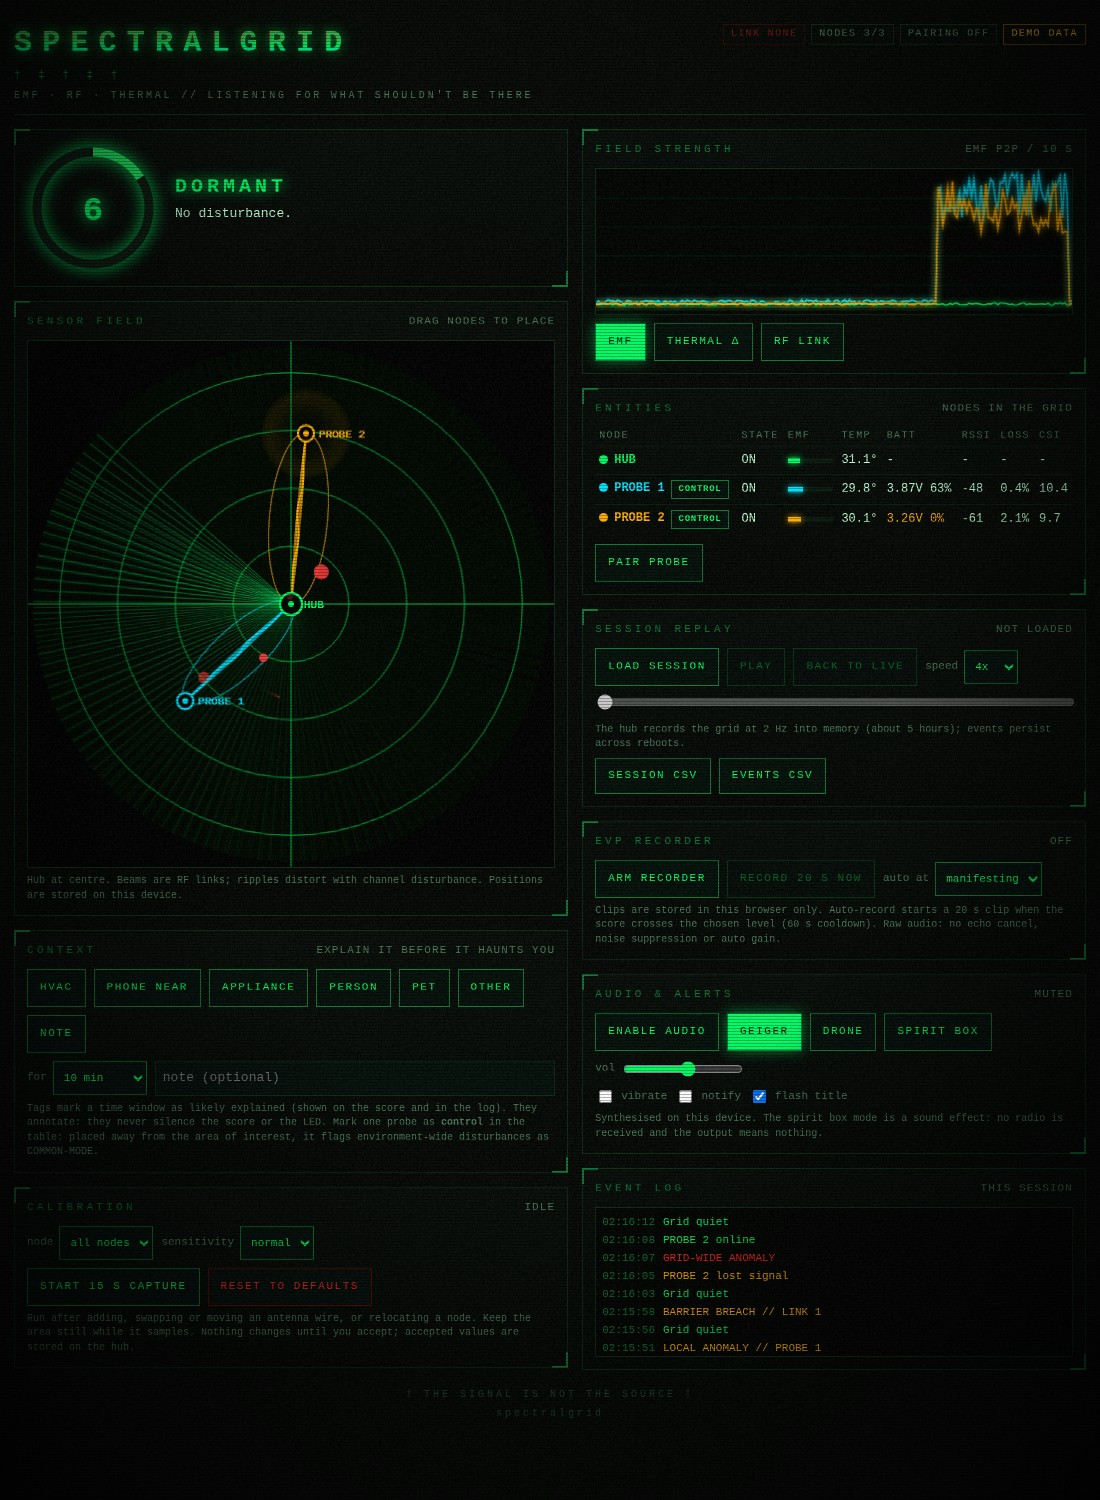
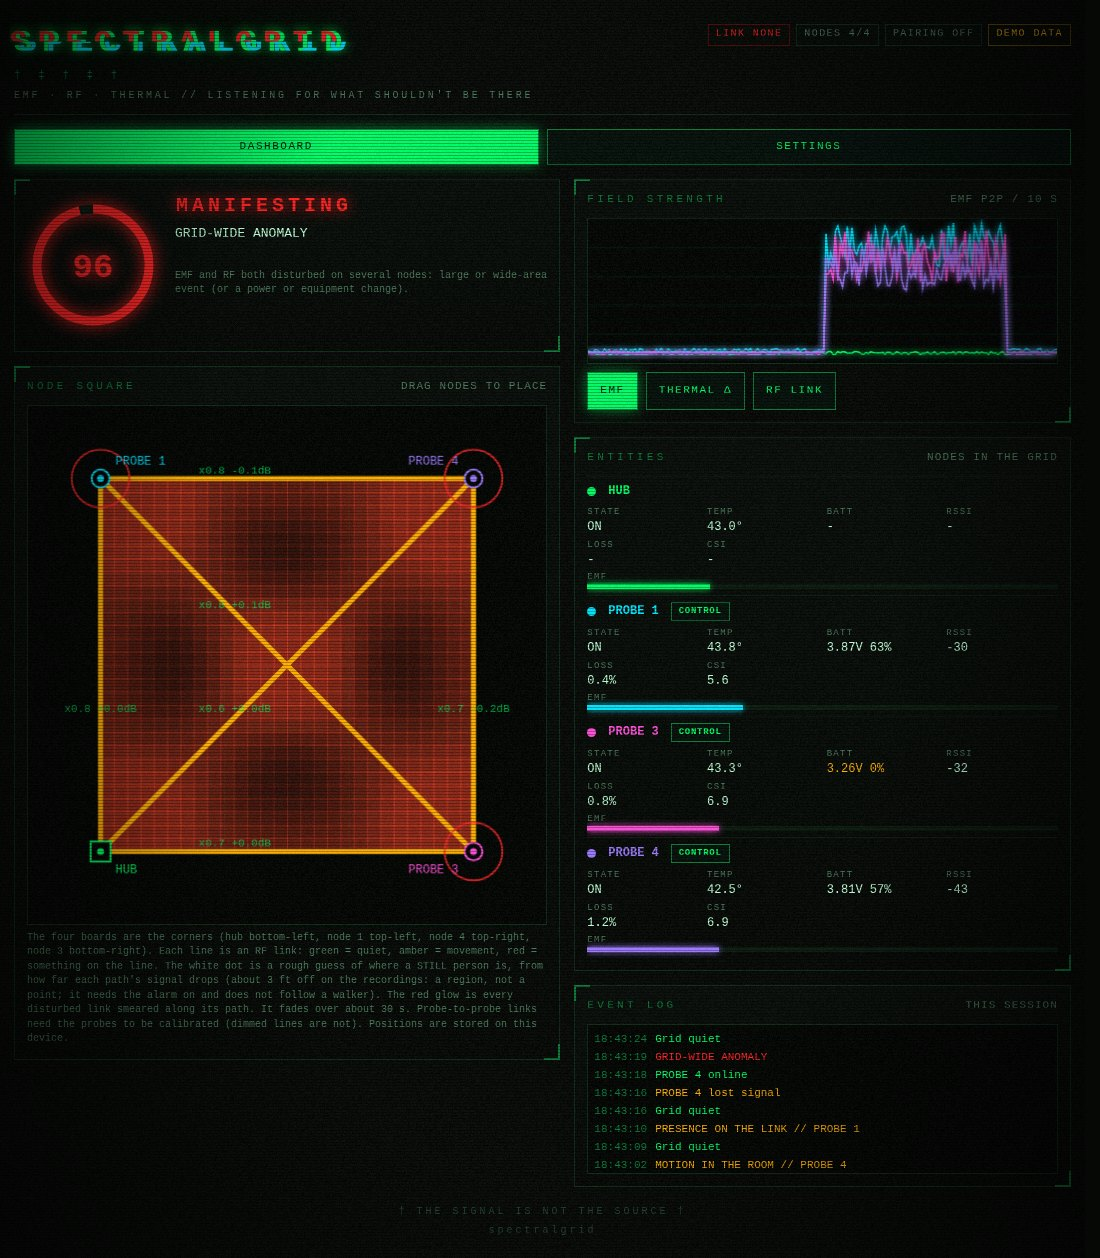
Dashboard demo on the four-board square; alert toast fix; screenshots
The built-in demo simulated the old two-probe setup, and the README
screenshots showed the circular radar that the square map replaced.

Demo generator: hub plus probes 1, 3, 4 with all six paths, including
probe-to-probe links. A 34 s cycle: quiet, someone walking, someone
standing still near probe 1 (shadowed paths and the still-person dot),
probe 4 dropping out, then a grid anomaly.

Alert toast: it was built before the new vector was stored, so it
described the previous state ("Manifesting: No disturbance."). It now
uses the vector from the incoming frame.

Screenshots: new demo_alarm, demo_context, demo_calm_mobile and
demo_presence_mobile; the README table shows only square-map views.

Verified: script passes node --check; demo captured headless at 1100
and 390 px. Not verified: the toast fix during a live alarm.

diff --git a/hub/web/dashboard.html b/hub/web/dashboard.html
@@ -357,7 +357,7 @@ function dispScore(raw){const now=Date.now(),dt=Math.min(now-(S.dispT||now),1000
   else if(now>(S.dispHold||0))S.disp=Math.max(raw,S.disp-dt*DISP_DECAY);
   return Math.round(S.disp)}
 function apply(f){
-  S.score=f.score|0;S.top=[f.top|0,f.top_v|0,f.top_id===undefined?-1:f.top_id];if(f.vector&&f.vector!=='QUIET')S.holdVec=[f.vector,f.vec_id,S.top];if(f.t!==undefined&&!S.replay)S.hubOff=Date.now()-f.t;S.drift=f.drift||[];S.tags=f.tags||[];if(!S.replay)alerts(S.score);evpAuto(S.score);
+  S.score=f.score|0;S.top=[f.top|0,f.top_v|0,f.top_id===undefined?-1:f.top_id];if(f.vector&&f.vector!=='QUIET')S.holdVec=[f.vector,f.vec_id,S.top];if(f.t!==undefined&&!S.replay)S.hubOff=Date.now()-f.t;S.drift=f.drift||[];S.tags=f.tags||[];if(!S.replay)alerts(S.score,f.vector||S.vector,f.vec_id===undefined?S.vecId:f.vec_id);evpAuto(S.score);
   if(!S.demo){ if(f.cal)setCal({s:f.cal.s,left:f.cal.left}); else if(S.cal.s!=='idle')setCal({s:'idle',left:0}) }
   if(f.vector!==S.vector||f.vec_id!==S.vecId){ if(f.vector!=='QUIET'||S.vector!=='QUIET') if(S.demo)log(f.vector==='QUIET'?'Grid quiet':'<span>'+vecText(f.vector,f.vec_id,S.top)+'</span>',f.vector==='QUIET'?'e-ok':(f.score>70?'e-hi':'e-mid')); S.vector=f.vector;S.vecId=f.vec_id;}
   if(!!f.pairing!==S.pairing){S.pairing=!!f.pairing;if(S.demo)log(S.pairing?'Pairing window open':'Pairing window closed')}
@@ -566,16 +566,31 @@ function connect(){ if(location.protocol==='file:'){startDemo();return}
 let demoT=null,dt0=0;
 function startDemo(){ if(S.demo)return;S.demo=true;log('No link: showing demo data');dt0=performance.now();
   demoT=setInterval(()=>{const t=(performance.now()-dt0)/1000,ph=t%34,r=()=>Math.random();
-    let e1=4+r()*3,e2=3+r()*2,csi=9+r()*2,sc=6,vec='QUIET',vid=-1;
-    if(ph>10&&ph<15){e1=45+r()*40;sc=48+r()*10;vec='LOCAL_NODE';vid=1}
-    else if(ph>=17&&ph<22){csi=40+r()*22;sc=52+r()*14;vec='BARRIER_BREACH';vid=1}
-    else if(ph>=26&&ph<31){e1=60+r()*30;e2=50+r()*35;csi=45+r()*25;sc=82+r()*14;vec='GRID_ANOMALY';vid=-1}
+    // hub + probes 1, 3, 4 in the default square. 9-16 s someone walks across (motion on the diagonals), 17-23 s they stand still
+    // near probe 1 (paths through that corner shadowed: the map's still-person dot), 23-25 s probe 4 drops out, 26-31 s grid anomaly.
+    const walk=ph>9&&ph<16,stand=ph>=17&&ph<23,grid=ph>=26&&ph<31,on4=ph<23||ph>25;
+    const path=k=>{   // detector state for one physical path: st 1 clear, 2 motion, 3 on the line; sc score; tr noise/threshold; dr RSSI drop (dB)
+      const q={st:1,sc:0,tr:.55+r()*.3,dr:(r()-.5)*.4};
+      if(walk&&(k==='0-4'||k==='1-3'||k==='3-4')){q.st=2;q.sc=45+r()*15;q.tr=1.3+r()*.6}
+      if(stand&&(k==='1-3'||k==='0-1'||k==='1-4')){q.st=3;q.sc=70+r()*8;q.dr=k==='1-3'?3.2+r()*.4:2.1+r()*.4}
+      if(stand&&(k==='0-4'||k==='0-3'))q.dr=.4+r()*.3;
+      if(grid){q.st=2;q.sc=60+r()*30;q.tr=1.6+r()*1.2}
+      return q};
+    let e1=4+r()*3,e3=3+r()*2,e4=3+r()*2,sc=6,vec='QUIET',vid=-1;
+    if(walk){sc=50+r()*10;vec='ROOM_MOTION';vid=4}
+    else if(stand){sc=68+r()*8;vec='LINE_BREAK';vid=1}
+    else if(grid){e1=60+r()*30;e3=50+r()*35;e4=45+r()*30;sc=82+r()*14;vec='GRID_ANOMALY';vid=-1}
+    const hl=id=>{const q=path('0-'+id);return{id,csi:5+r()*2+(q.st>1?30:0),pr:q.st,ps:Math.round(q.sc),mv:q.st===2?1:0,tr:q.tr,dr:q.dr}};
+    const pl=(rx,tx)=>{const q=path(Math.min(rx,tx)+'-'+Math.max(rx,tx));return{rx,tx,cal:true,fresh:rx!==4&&tx!==4||on4,state:q.st,score:Math.round(q.sc),tr:q.tr,dr:q.dr}};
+    S.p2p={enabled:true,links:[pl(1,3),pl(3,1),pl(1,4),pl(4,1),pl(3,4),pl(4,3)]};
     apply({score:Math.round(sc),vector:vec,vec_id:vid,pairing:S.pairing,nodes:[
-      {id:0,on:1,emf:15000,p2p:3+r()*2,temp:31.2+Math.sin(t/9)*.2,d_temp:Math.sin(t/7)*.05,vbat:0,ctl:0},
-      {id:1,on:1,emf:15100,p2p:e1,temp:29.8,d_temp:(ph>=33?-.4:Math.sin(t/5)*.03),rssi:-48,loss:.4,vbat:3900-Math.round(t)%50,ctl:0},
-      {id:2,on:ph<24||ph>27,emf:15050,p2p:e2,temp:30.1,d_temp:0,rssi:-61,loss:2.1,vbat:3260,ctl:S.demoCtl2?1:0}],tags:(ph>=19&&ph<28)?[{k:'hvac',note:'furnace',left:Math.round((28-ph)*20)}]:[],drift:(ph>=12&&ph<20)?[{id:1,r:'antenna'}]:[],
-      links:[{id:1,csi:csi},{id:2,csi:9+r()*2}]})},50);}
-function stopDemo(){clearInterval(demoT);S.demo=false;S.nodes.clear();S.hist.clear();log('Live data');}
+      {id:0,on:1,emf:21600,p2p:3+r()*2,temp:43.1+Math.sin(t/9)*.2,d_temp:Math.sin(t/7)*.05,vbat:0,ctl:0},
+      {id:1,on:1,emf:18840,p2p:e1,temp:43.8,d_temp:(ph>=33?-.4:Math.sin(t/5)*.03),rssi:-30,loss:.4,vbat:3900-Math.round(t)%50,ctl:0},
+      {id:3,on:1,emf:19780,p2p:e3,temp:43.3,d_temp:0,rssi:-32,loss:.8,vbat:3260,ctl:0},
+      {id:4,on:on4?1:0,emf:24770,p2p:e4,temp:42.5,d_temp:0,rssi:-43,loss:1.2,vbat:3810,ctl:0}],
+      tags:(ph>=19&&ph<28)?[{k:'hvac',note:'furnace',left:Math.round((28-ph)*20)}]:[],drift:(ph>=12&&ph<20)?[{id:3,r:'antenna'}]:[],
+      links:[hl(1),hl(3),...(on4?[hl(4)]:[])]})},50);}
+function stopDemo(){clearInterval(demoT);S.demo=false;S.p2p=null;S.nodes.clear();S.hist.clear();log('Live data');}
 
 /* ---------- calibration (spec 9.2 item 5) ---------- */
 const CAL_S=30;let calPending=null,calTimer=null,calNodesKey='';
@@ -720,9 +735,10 @@ $('#driftbar').onclick=e=>{if(e.target.dataset&&e.target.dataset.dgo){$('#calp')
 /* ---------- vibration, notifications, title flash ---------- */
 const AL={lastLevel:0,cool:{},flashT:null};
 const alLevel=s=>s>70?2:s>30?1:0;
-function alerts(score){const lv=alLevel(score),up=lv>AL.lastLevel;AL.lastLevel=lv;if(!up)return;
+function alerts(score,vec,vid){   // vec/vid from this frame: S.vector is only updated further down in apply()
+  const lv=alLevel(score),up=lv>AL.lastLevel;AL.lastLevel=lv;if(!up)return;
   const now=Date.now();if(now-(AL.cool[lv]||0)<20000)return;AL.cool[lv]=now;
-  const msg=(lv>1?'Manifesting: ':'Stirring: ')+vecText(S.vector,S.vecId,S.top);toast(msg,lv);
+  const msg=(lv>1?'Manifesting: ':'Stirring: ')+vecText(vec,vid,S.top);toast(msg,lv);
   if($('#al-vib').checked&&navigator.vibrate)navigator.vibrate(lv>1?[200,100,200,100,400]:[120]);
   if($('#al-notif').checked&&'Notification'in window&&Notification.permission==='granted'){try{new Notification('SpectralGrid',{body:msg,tag:'sg'})}catch(e){}}
   if($('#al-flash').checked&&document.hidden&&!AL.flashT){let on=0;AL.flashT=setInterval(()=>{document.title=(on^=1)?'⚠ '+msg:'SpectralGrid'},900)}}

diff --git a/README.md b/README.md
@@ -27,15 +27,11 @@
 
 <table>
 <tr>
-<td width="50%"><img src="screenshots/demo_alarm.jpg" alt="Alarm state"><br><sub><b>Manifesting.</b> Grid-wide anomaly: the score ring goes red, the title glitches and the links shatter. (Demo data; the earlier radar view, since replaced by the square map.)</sub></td>
-<td width="50%"><img src="screenshots/live_replay.jpg" alt="Session replay on the live hub"><br><sub><b>Session replay, live hub.</b> The hub records the grid; here it is being scrubbed and replayed in a real browser, with the real event log (a tag note is shown as plain text).</sub></td>
+<td width="50%"><img src="screenshots/demo_alarm.jpg" alt="Alarm state"><br><sub><b>Manifesting.</b> Grid-wide anomaly: every path in alert, the score ring red, EMF spiking on all three probes. (Demo data.)</sub></td>
+<td width="50%"><img src="screenshots/demo_context.jpg" alt="Still person, tags, battery and control probes"><br><sub><b>Presence on the line.</b> Someone standing still near probe 1: the paths through that corner are shadowed and the dot marks the estimate. Also a cause tag ("HVAC, furnace"), the battery column flagging a low probe, and per-probe control buttons. (Demo data.)</sub></td>
 </tr>
 <tr>
-<td width="50%"><img src="screenshots/demo_context.jpg" alt="Tags, battery and control probes"><br><sub><b>Context.</b> Cause tags ("HVAC, furnace" on the score), a battery column that flags the low probe, and per-probe control buttons. (Demo data.)</sub></td>
-<td width="50%"><img src="screenshots/live_drift.jpg" alt="Drift prompt"><br><sub><b>Drift prompt, live hub.</b> After five minutes uncalibrated the hub suggests a calibration; accepting one clears the banner.</sub></td>
-</tr>
-<tr>
-<td colspan="2" align="center"><img src="screenshots/demo_barrier_mobile.jpg" alt="Phone layout" height="520"> &nbsp; <img src="screenshots/live_mobile_full.jpg" alt="Live phone layout" height="520"><br><sub>Phone layout: a barrier breach on a link (demo data), and the live hub.</sub></td>
+<td colspan="2" align="center"><img src="screenshots/demo_calm_mobile.jpg" alt="Phone layout, quiet" height="520"> &nbsp; <img src="screenshots/demo_presence_mobile.jpg" alt="Phone layout, presence and drift prompt" height="520"><br><sub>Phone layout: a quiet square, and a still person with a calibration prompt for a probe whose baseline moved. (Demo data.)</sub></td>
 </tr>
 </table>
 

diff --git a/screenshots/README.md b/screenshots/README.md
@@ -10,18 +10,17 @@ outside both PlatformIO projects (`hub/` and `probe/`), so neither build can com
 | `live_replay.jpg` | Session replay playing (REPLAY chip, scrubber), event log with real events, tag chip | Real hub |
 | `live_square_map.jpg` | Square map during a walk-through: six paths, one red, person dot | Real hub |
 | `live_drift.jpg` | "Calibration suggested" banner after 5 min uncalibrated | Real hub |
-| `live_mobile_full.jpg` | Phone-width layout, full page | Real hub |
 | `live_calibration_review.jpg` | Calibration review with real measurements (earlier layout) | Real hub |
 | `demo_calm.jpg` | Two probes, quiet grid | Built-in demo data |
-| `demo_alarm.jpg` | Grid-wide anomaly: red state, glitch title, shattered beams | Demo data |
+| `demo_alarm.jpg` | Grid-wide anomaly on the square map: every path in alert | Demo data (four boards) |
 | `demo_drift.jpg` | Drift banner (antenna change suspected) | Demo data |
-| `demo_context.jpg` | Cause tag chip, battery column, control-probe buttons | Demo data |
-| `demo_barrier_mobile.jpg` | Barrier breach at phone width | Demo data |
+| `demo_context.jpg` | Still person near probe 1 (shadowed paths, dot), cause tag, battery column, control-probe buttons | Demo data (four boards) |
+| `demo_calm_mobile.jpg`, `demo_presence_mobile.jpg` | Phone width: quiet square; still person with a drift prompt | Demo data (four boards) |
 | `demo_calibrating.jpg`, `demo_calibration_review.jpg` | Calibration capture and review (with a noisy-node warning) | Demo data |
 
 `live_*` were captured by headless Chromium on the Pi while its `wlan0` was joined to the hub's access point
 (`hub/tools/pi_hub_features_test.sh`). The live hub had no probes and no antenna wire, so it shows one node and a flat EMF
-trace. `demo_*` use the dashboard's synthetic data (open `hub/web/dashboard.html` from a `file://` URL). The film grain
+trace. `demo_*` use the dashboard's synthetic data (open `hub/web/dashboard.html` from a `file://` URL). Images not marked "four boards" show the earlier radar view, which the square map replaced. The film grain
 makes lossless PNGs large, so these are JPEGs (quality ~90).
 
 Take a screenshot in real time (needed for anything involving sockets, timers or the microphone):
